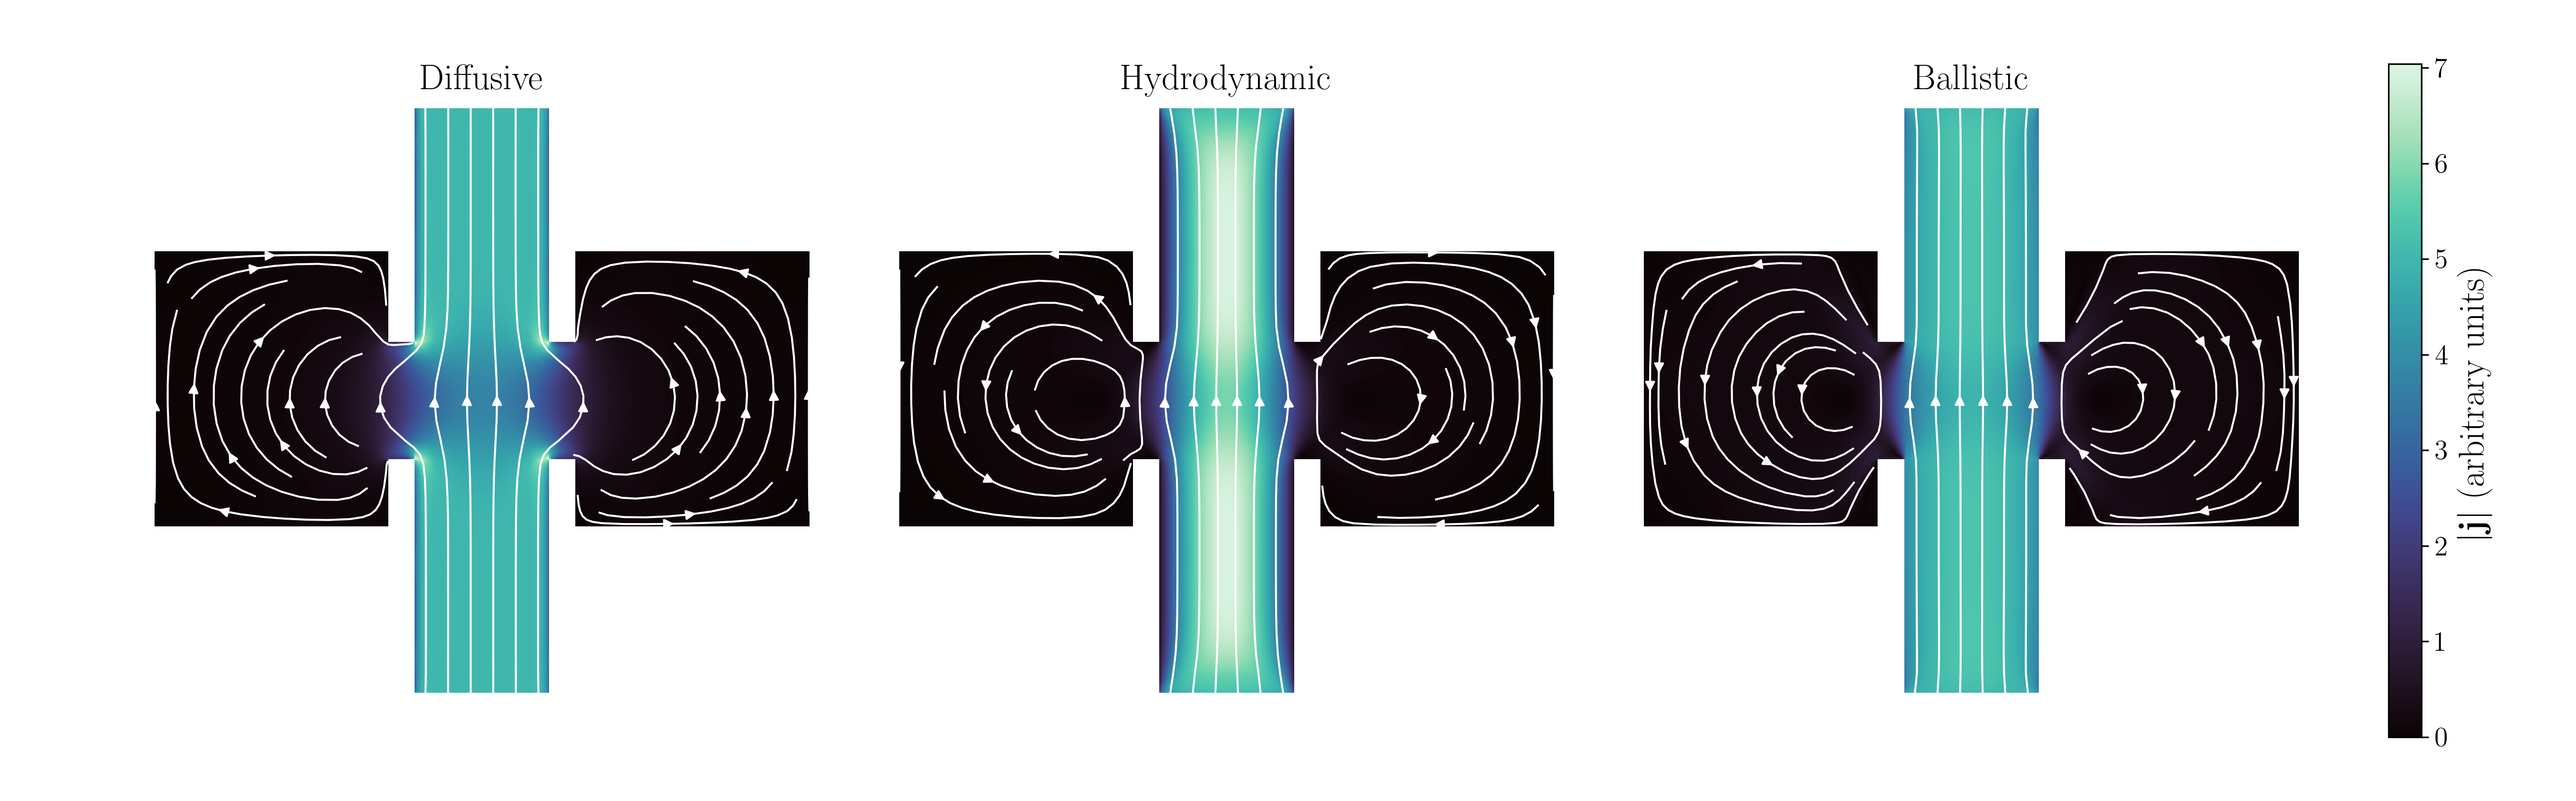
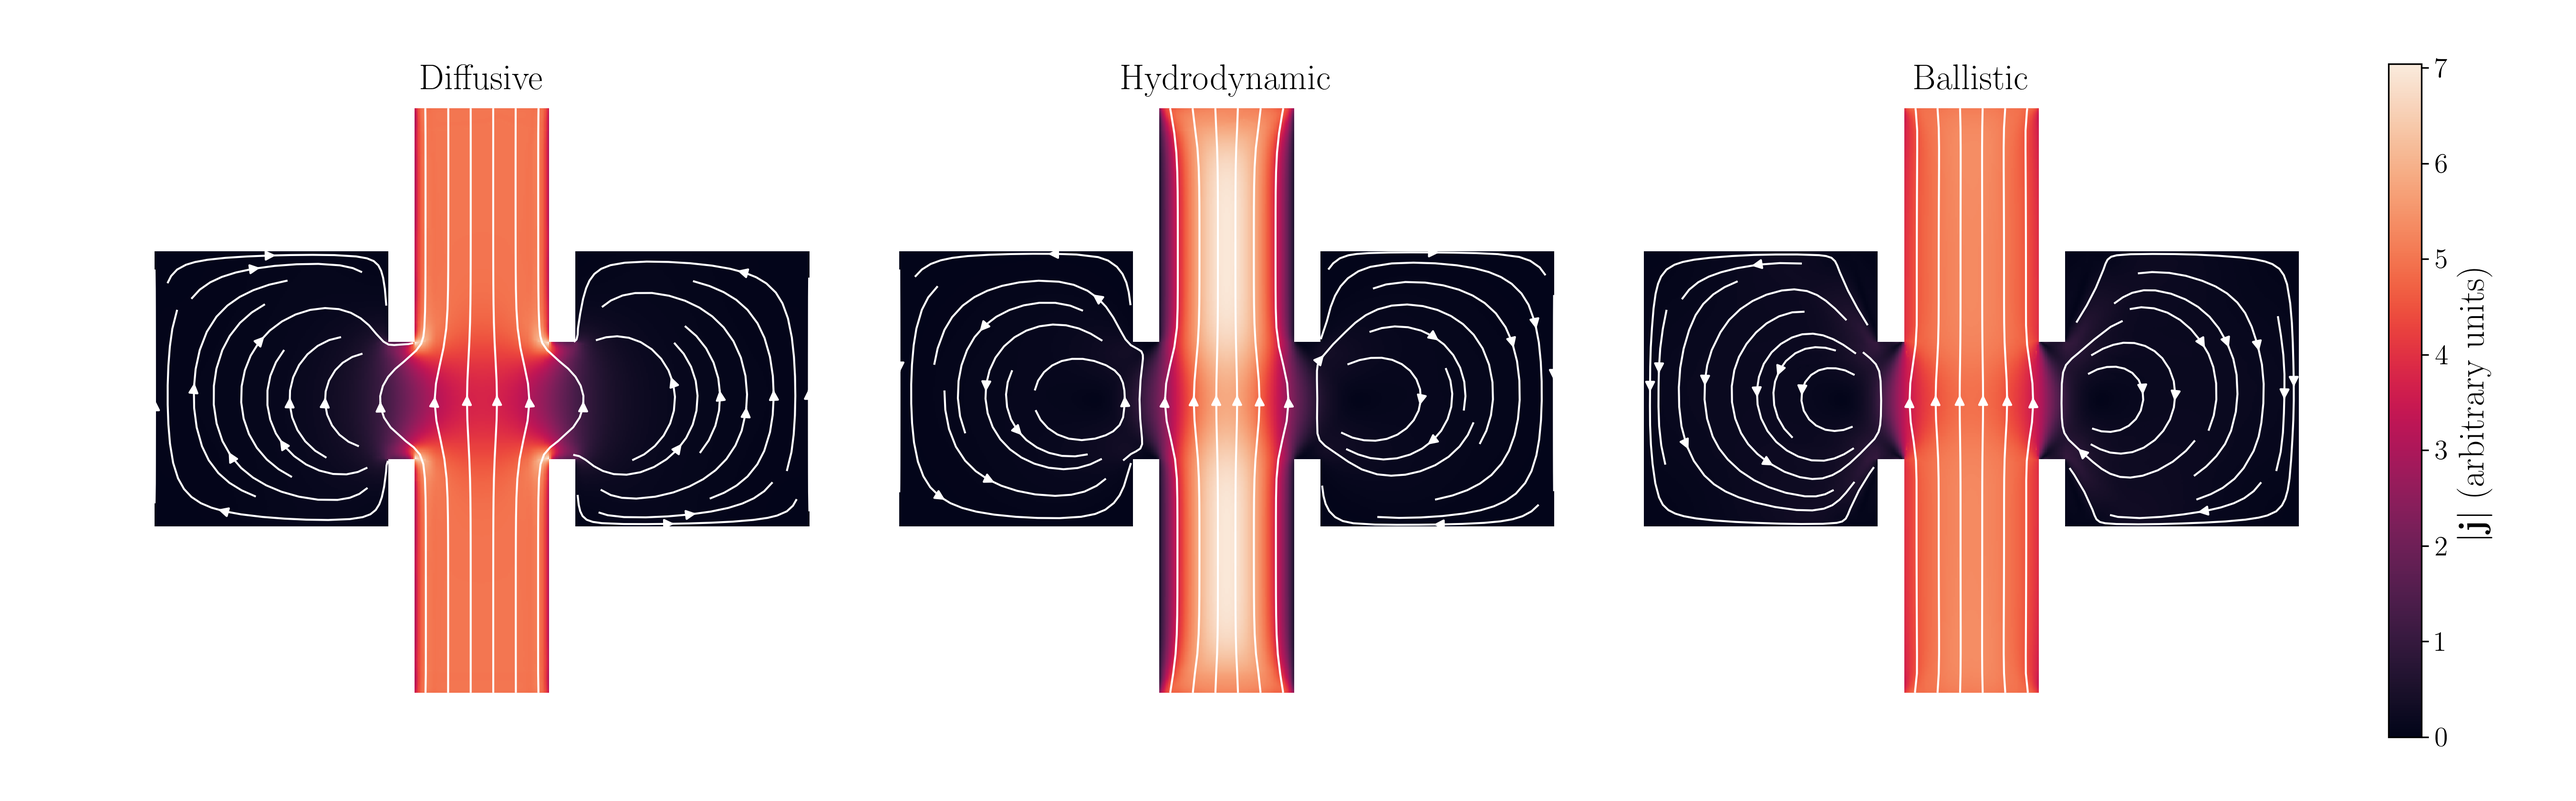
use rocket instead of mako for demo

diff --git a/demo/plot_regime_streamlines.py b/demo/plot_regime_streamlines.py
@@ -63,7 +63,7 @@ gs = fig.add_gridspec(
 )
 axes = [fig.add_subplot(gs[0, i]) for i in range(3)]
 cax = fig.add_subplot(gs[0, 3])
-cmap_mako = sns.color_palette("mako", as_cmap=True)
+cmap_rocket = sns.color_palette("rocket", as_cmap=True)
 last_pcm = None
 
 # Determine common axis limits across all regimes
@@ -99,7 +99,7 @@ for ax, (regime, x, y, u_norm, v_norm) in zip(axes, field_data):
     v_masked = np.ma.masked_invalid(v_norm)
 
     pcm = ax.pcolormesh(
-        x, y, speed_masked, cmap=cmap_mako, shading='auto', vmin=0.0, vmax=speed_norm_max
+        x, y, speed_masked, cmap=cmap_rocket, shading='auto', vmin=0.0, vmax=speed_norm_max
     )
     last_pcm = pcm
     ax.streamplot(
